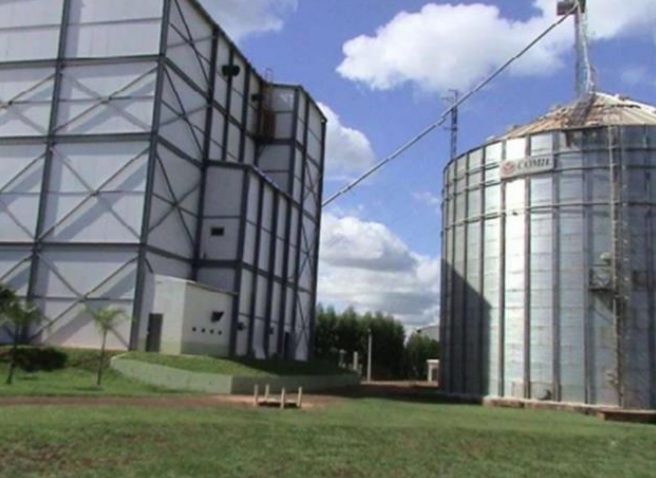
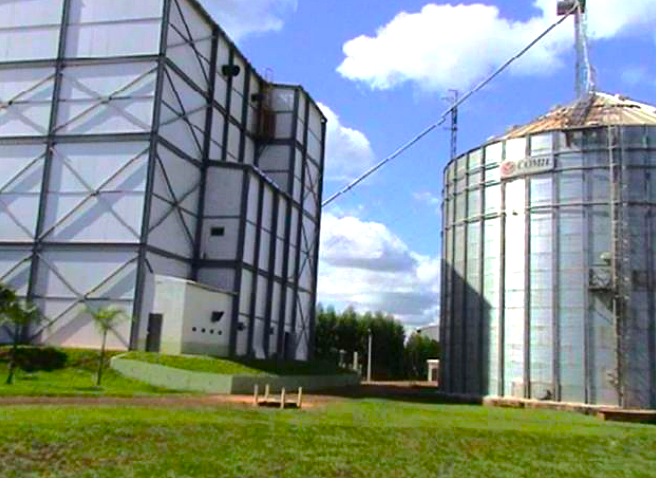
Feat: modificar imagens do HomeContent

diff --git a/src/components/HomeContent.jsx b/src/components/HomeContent.jsx
@@ -3,9 +3,9 @@ import { FaCheckCircle } from "react-icons/fa";
 import empresa from '../assets/empresa.png';
 import funcionario from '../assets/funcionario.png';
 import img1 from '../assets/fundo1.png';
-import img2 from '../assets/fundo2.png';
-import img3 from '../assets/fundo3.png';
-import img4 from '../assets/fundo4.png';
+import img2 from '../assets/fundo2.jpeg';
+import img3 from '../assets/fundo3.jpeg';
+import img4 from '../assets/fundo4.jpeg';
 import CepeaWidget from './CepeaWidget';
 
 const images = [img1, img2, img3, img4];
@@ -16,7 +16,7 @@ export default function HomeContent() {
     useEffect(() => {
         const interval = setInterval(() => {
             setCurrentImage((prev) => (prev + 1) % images.length);
-    }, 10000);
+    }, 4000);
 
     return () => clearInterval(interval);
     }, []);
